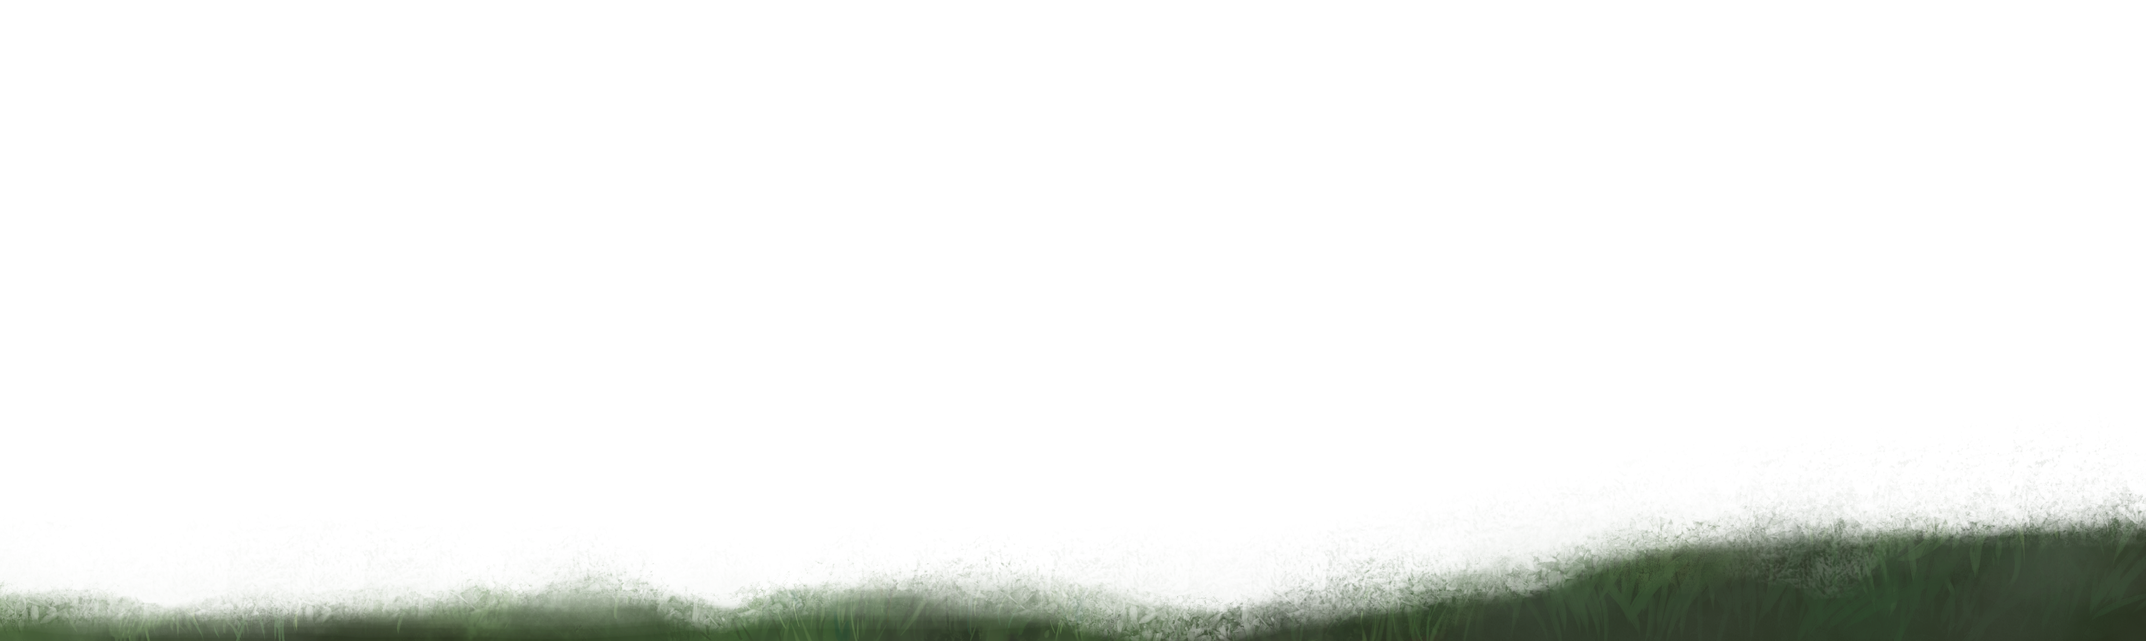
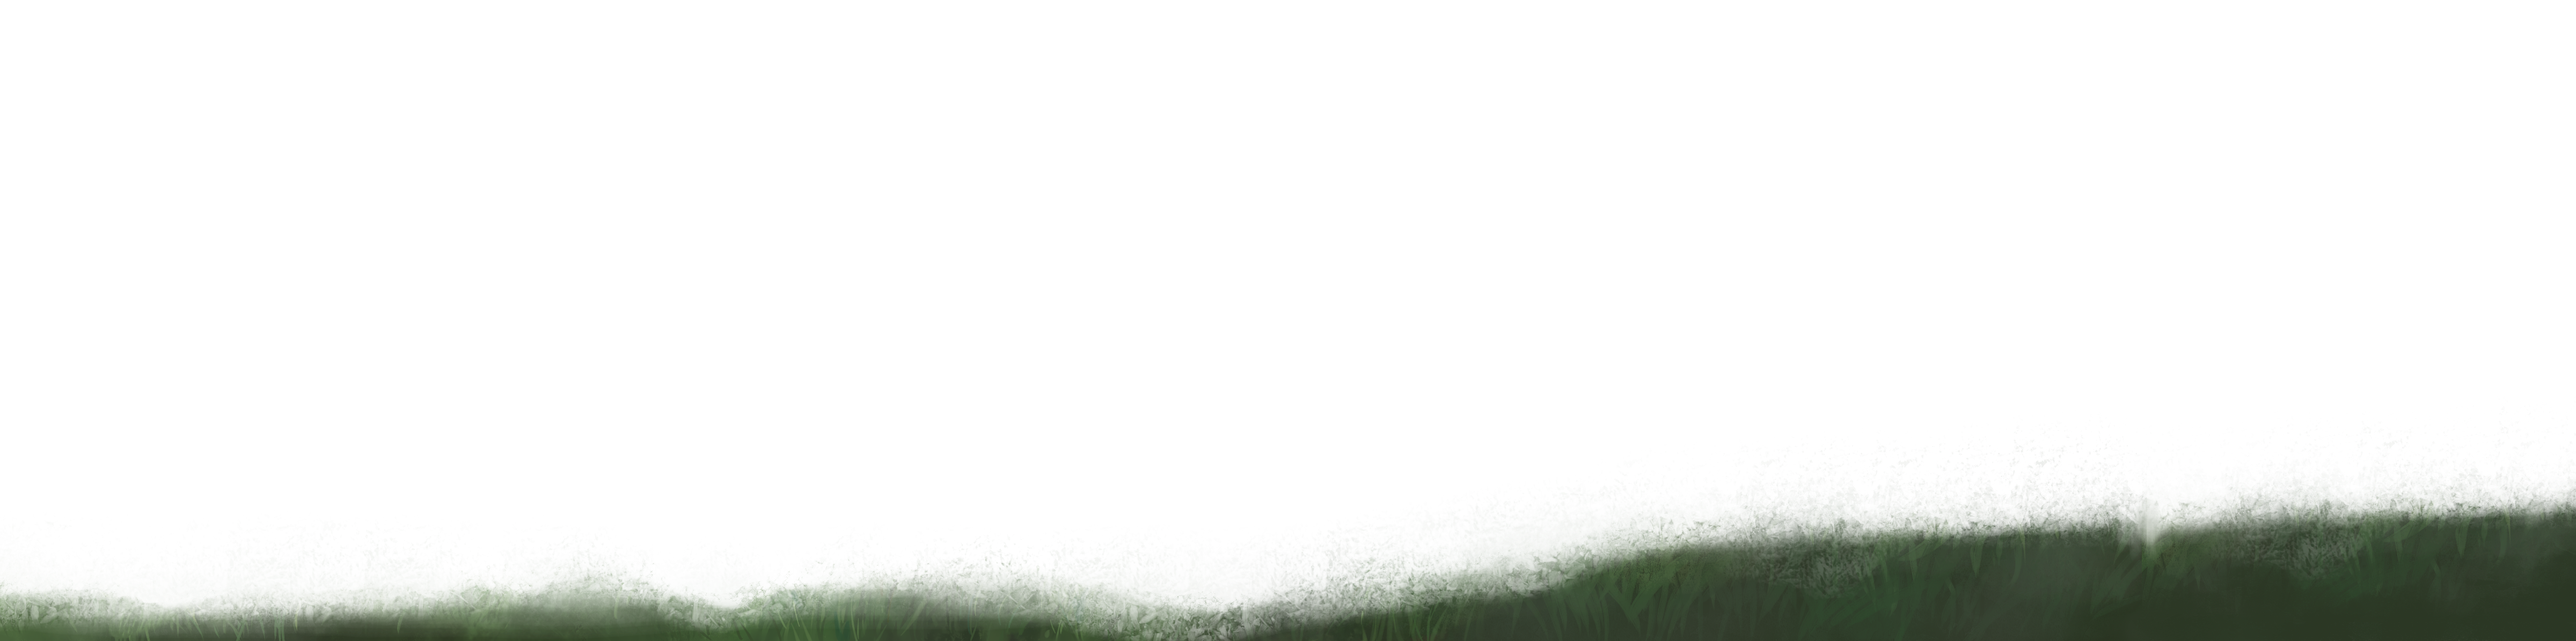
Added horizontal limit for maximum and minimum div translations. Flowerbeds and first plane grass are longer and don't get suddenl cut mid-view.

Changed region(s): [[0.0, 0.7734, 1.0, 1.0]]

diff --git a/js/script.js b/js/script.js
@@ -1,6 +1,7 @@
 lastScrollLeft = 0;
 var orient = 0;
 var jump = 10; //scroll speed
+var continuous = 0; //cloud auto movement
 
 var main = $("div#mainPanel");
 var sky = $("div#sky");
@@ -27,6 +28,7 @@ var followx = 0,
 var lMouseX, lMouseY, moveX, moveY;
 
 /*Wave effect bit from stack overflow*/
+//NOT BEING APPLIED
 //@https://stackoverflow.com/questions/29586754/how-can-i-recreate-this-wavy-image-effect
 
 //-------------
@@ -50,7 +52,7 @@ $(window).bind('mousewheel', function(event) {
 moveIt();
 
 $(window).mousemove(function( event ) {
-	
+	//console.log(moveX);
 	//mouse x position in %, relative to max window width
 	var mouseX = (event.pageX/width)*100;
 	var max = 80; //base value from which auto scroll (right) should start
@@ -97,6 +99,7 @@ $(window).mousemove(function( event ) {
 });
 
 function moveIt(){
+	
 	x += (followx - x) * friction;
 	y += (followy - y) * friction;
 	if(activeLeft){
@@ -107,10 +110,17 @@ function moveIt(){
 	}
 	moveX = x+orient;
 
+	/*if(continuous<=0 && continous>-1000){
+		continuous-=5.05;
+	} else if(continuous<=-1000){
+		continuous+=0.05;
+	}*/
+	console.log(continuous);
+if(moveX<-37 && moveX>-3550){
 	//Apply movement to divs
 	sky.css({"-webkit-transform":"translate("+moveX/20+"px, "+y/20+"px)"});
-	clouds.css({"-webkit-transform":"translate("+moveX/15+"px, "+y/15+"px)"});
-	clouds2.css({"-webkit-transform":"translate("+moveX/12+"px, "+y/12+"px)"});
+	//clouds.css({"-webkit-transform":"translate("+(moveX/15)+"px, "+y/15+"px)"});
+	//clouds2.css({"-webkit-transform":"translate("+moveX/12+"px, "+y/12+"px)"});
 	grass.css({"-webkit-transform":"translate("+moveX/3.7+"px, "+y/4+"px)"});
 	grass2.css({"-webkit-transform":"translate("+moveX/3+"px, "+y/3+"px)"});
 	freya.css({"-webkit-transform":"translate("+moveX/3.5+"px, "+y/4+"px)"});
@@ -118,5 +128,8 @@ function moveIt(){
 	grass3.css({"-webkit-transform":"translate("+moveX/3.5+"px, "+y/4+"px)"});
 
 	main.css({"-webkit-transform":"translate("+moveX+"px, "+y+"px)"});
+}
+	clouds.css({"-webkit-transform":"translate("+continuous+"px, "+y/15+"px)"});
+	clouds2.css({"-webkit-transform":"translate("+continuous/3+"px, "+y/12+"px)"});
 	window.requestAnimationFrame(moveIt);
 }
